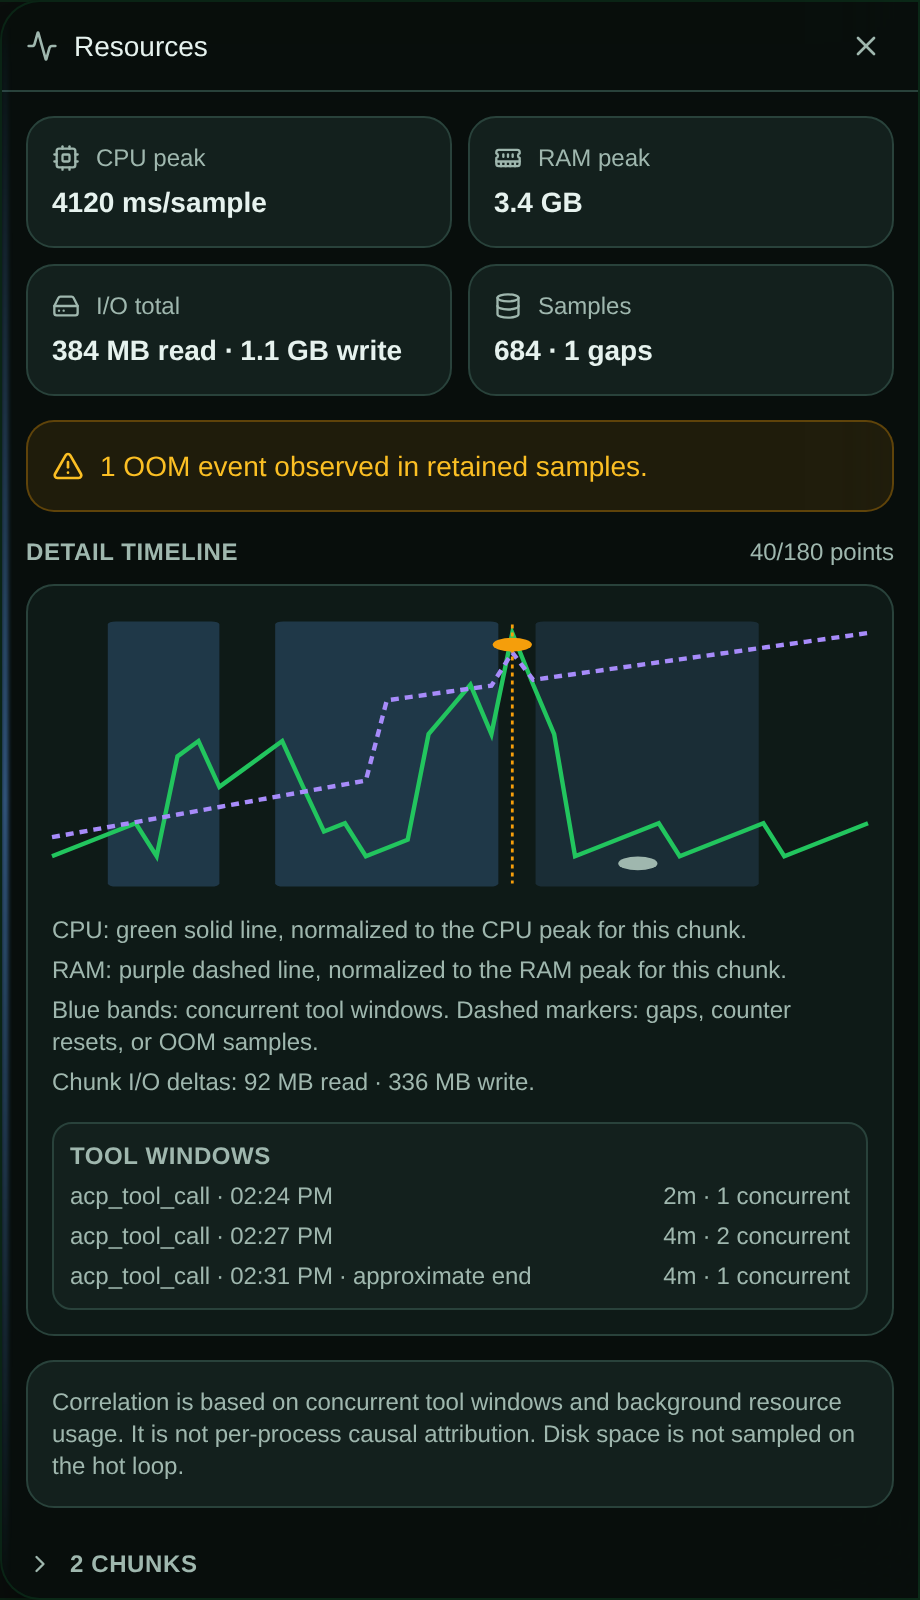
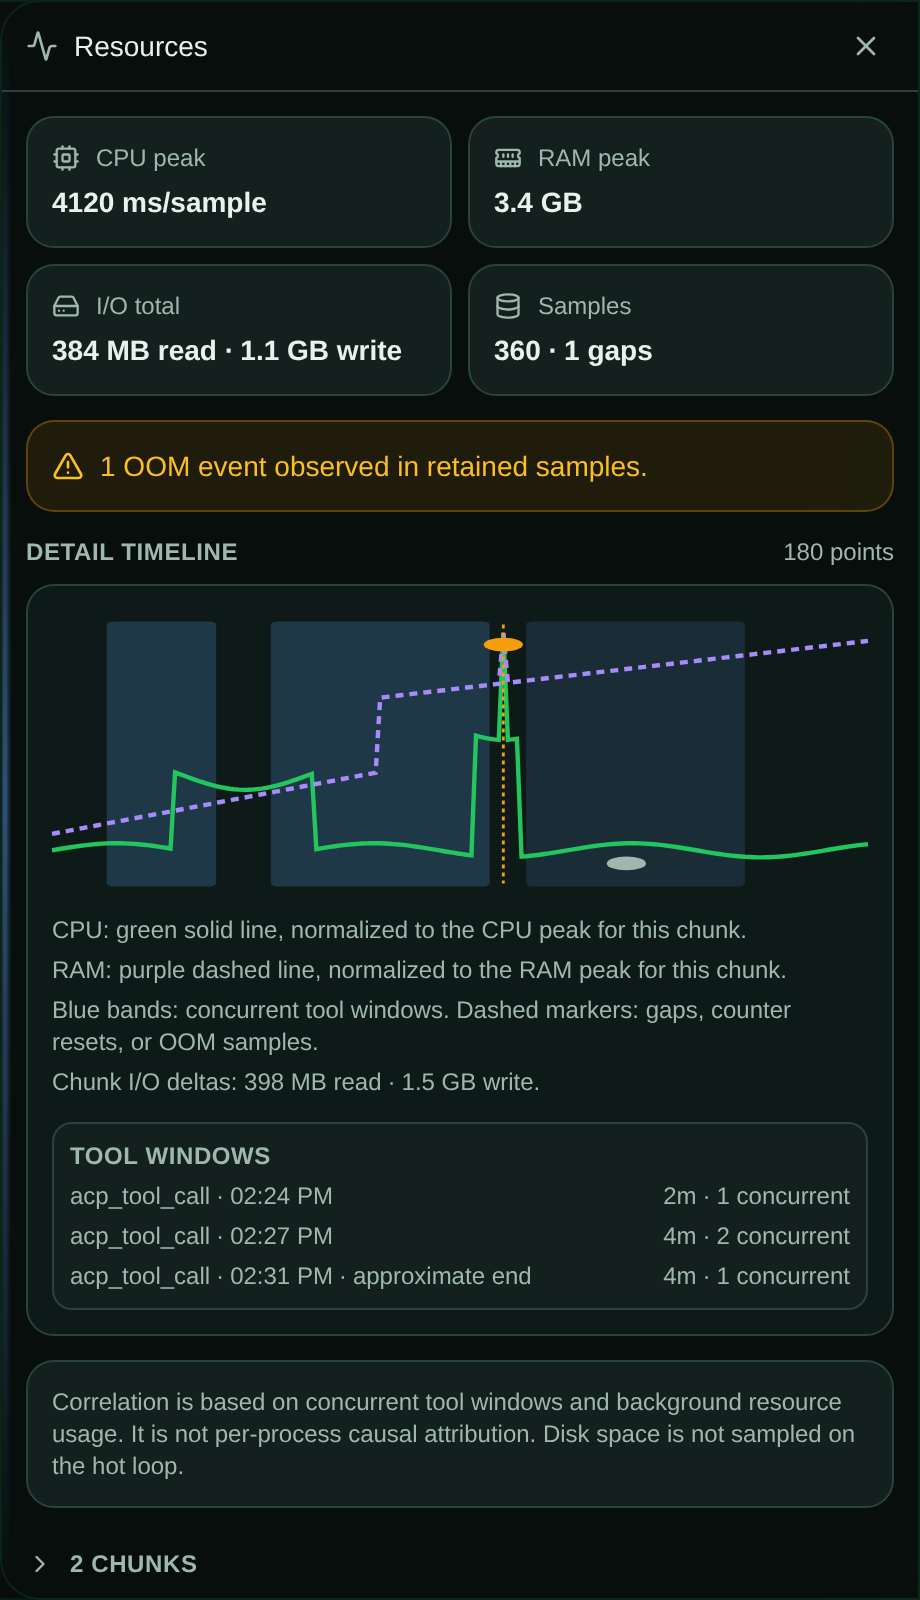
docs: make the resource screenshot honest and finish the review loop
Round 4 caught that downsampling cannot fire at shipped defaults — a 15-minute
chunk at 5-second sampling is ~180 samples against a 720-point cap — so the hero
screenshot's "40/180 points" showed a state no reader can reach. The fixture now
models a real default chunk (180 samples at 5s, downsampled: false, summary
reconciling to 360 across two chunks) with a smooth curve instead of modulo
jitter, and the guide scopes downsampling to the deployments that can actually
hit it, drops the overstated "a spike survives it", and keeps the honest note
that OOM markers are not specifically preserved when thinning does happen.

Also: forking is session-scoped, not anchored to a message (the steps were fixed
in round 3, the promise above them was not); the badge section said "read the
text, not the colour" three times; the two "no banner" rows in the
instant-sessions triage table are now distinguishable by the composer.

The gap-marker decision is unchanged and was endorsed on review: the docs
describe what renders, the undefined-token bug stays tracked in
tasks/backlog/2026-09-23-resource-sparkline-gap-marker-has-no-colour.md, and its
acceptance criteria name the three passages to update when it lands.

diff --git a/apps/web/tests/playwright/docs-screenshots-sessions.spec.ts b/apps/web/tests/playwright/docs-screenshots-sessions.spec.ts
@@ -146,6 +146,19 @@ function conversation() {
 
 const CHUNK_ID = 'wrchunk-docs-2';
 
+/**
+ * One chunk at the shipped defaults: 15 minutes of 5-second samples, so 180 points —
+ * comfortably under WORKSPACE_RESOURCE_DETAIL_MAX_POINTS (720). Downsampling therefore
+ * does not fire, which is what a reader's own panel will show, so the captured header
+ * must read a plain point count rather than the `<shown>/<total>` downsampled form.
+ */
+const CHUNK_SAMPLE_COUNT = 180;
+
+/** Index of the out-of-memory sample, and of the telemetry gap after it. */
+const OOM_INDEX = Math.round(CHUNK_SAMPLE_COUNT * 0.55);
+const GAP_INDEX = Math.round(CHUNK_SAMPLE_COUNT * 0.7);
+
+
 const RESOURCE_SUMMARY = {
   id: `workspace:${PROJECT_ID}:${WORKSPACE_ID}:session:${SESSION_ID}`,
   projectId: PROJECT_ID,
@@ -158,9 +171,9 @@ const RESOURCE_SUMMARY = {
   agentType: 'claude-code',
   runtime: 'vm',
   sourceVersion: 1,
-  startedAt: NOW - 3_600_000,
+  startedAt: NOW - 1_920_000,
   endedAt: NOW - 120_000,
-  sampleCount: 684,
+  sampleCount: 360,
   gapCount: 1,
   toolSpanCount: 8,
   cpuMeanMillis: 940,
@@ -192,7 +205,7 @@ const RESOURCE_CHUNKS = [
     sha256: 'a'.repeat(64),
     startedAt: NOW - 1_020_000,
     endedAt: NOW - 120_000,
-    sampleCount: 180,
+    sampleCount: CHUNK_SAMPLE_COUNT,
     gapCount: 1,
     toolSpanCount: 5,
     completeness: { status: 'complete' },
@@ -213,7 +226,7 @@ const RESOURCE_CHUNKS = [
     sha256: 'b'.repeat(64),
     startedAt: NOW - 1_920_000,
     endedAt: NOW - 1_020_000,
-    sampleCount: 180,
+    sampleCount: CHUNK_SAMPLE_COUNT,
     gapCount: 0,
     toolSpanCount: 3,
     completeness: { status: 'complete' },
@@ -222,36 +235,47 @@ const RESOURCE_CHUNKS = [
   },
 ];
 
-/** A build ramp, a test spike, the OOM, then a quieter recovery. */
+/**
+ * A build ramp, a test spike, the OOM, then a quieter recovery.
+ *
+ * The wobble is a slow sine rather than `i % n`: at 180 points a modulo jitter
+ * draws a sawtooth that fills the chart and hides the shape the docs describe.
+ */
+function wobble(i: number, amplitude: number): number {
+  return Math.round(amplitude * (0.5 + 0.5 * Math.sin(i / 9)));
+}
+
 function sampleCpu(i: number): number {
-  if (i === 22) return 4_120;
-  if (i >= 18 && i <= 24) return 2_400 + (i % 3) * 420;
-  if (i >= 6 && i <= 12) return 1_500 + (i % 4) * 260;
-  return 320 + (i % 5) * 140;
+  if (i === OOM_INDEX) return 4_120;
+  if (i >= OOM_INDEX - 6 && i <= OOM_INDEX + 3) return 2_300 + wobble(i, 700);
+  if (i >= CHUNK_SAMPLE_COUNT * 0.15 && i <= CHUNK_SAMPLE_COUNT * 0.32) {
+    return 1_450 + wobble(i, 520);
+  }
+  return 300 + wobble(i, 240);
 }
 
 function sampleMemory(i: number): number {
-  if (i === 22) return 3_650_722_201;
-  if (i >= 16) return 2_100_000_000 + i * 48_000_000;
-  return 620_000_000 + i * 62_000_000;
+  if (i === OOM_INDEX) return 3_650_722_201;
+  if (i >= CHUNK_SAMPLE_COUNT * 0.4) return 2_100_000_000 + i * 8_000_000;
+  return 620_000_000 + i * 13_000_000;
 }
 
 const RESOURCE_DETAIL = {
   chunkId: CHUNK_ID,
-  originalSampleCount: 180,
-  downsampled: true,
+  originalSampleCount: CHUNK_SAMPLE_COUNT,
+  downsampled: false,
   downsampleLimit: 720,
-  samples: Array.from({ length: 40 }, (_, i) => ({
-    t: NOW - 1_020_000 + i * 22_500,
+  samples: Array.from({ length: CHUNK_SAMPLE_COUNT }, (_, i) => ({
+    t: NOW - 1_020_000 + i * 5_000,
     intervalMillis: 5_000,
     cpuMillis: sampleCpu(i),
     memoryBytes: sampleMemory(i),
     memoryPeakBytes: sampleMemory(i),
     ioReadBytes: i % 6 === 0 ? 12_582_912 : 262_144,
     ioWriteBytes: i % 5 === 0 ? 41_943_040 : 524_288,
-    oom: i === 22 ? 1 : 0,
-    oomKill: i === 22 ? 1 : 0,
-    gap: i === 28,
+    oom: i === OOM_INDEX ? 1 : 0,
+    oomKill: i === OOM_INDEX ? 1 : 0,
+    gap: i === GAP_INDEX,
   })),
   toolSpans: [
     {

diff --git a/apps/www/src/content/docs/docs/guides/session-resources.md b/apps/www/src/content/docs/docs/guides/session-resources.md
@@ -24,7 +24,7 @@ The button is always there, including on sessions that already ended — which i
 want it, because the workspace is gone and this is the only record left. It is also there on
 sessions that never collected anything, where it shows an empty state rather than hiding itself.
 
-![The Resources drawer for a chat session: stat cards reading CPU peak 4120 ms/sample, RAM peak 3.4 GB, I/O total 384 MB read and 1.1 GB write, and 684 samples with 1 gap; an amber banner reading "1 OOM event observed in retained samples"; a detail timeline chart with a green CPU line, a dashed purple RAM line, blue tool-window bands and an amber OOM marker; a Tool windows list; and a collapsed "2 chunks" disclosure.](/images/docs/session-resources-drawer.png)
+![The Resources drawer for a chat session: stat cards reading CPU peak 4120 ms/sample, RAM peak 3.4 GB, I/O total 384 MB read and 1.1 GB write, and 360 samples with 1 gap; an amber banner reading "1 OOM event observed in retained samples"; a detail timeline chart with a green CPU line, a dashed purple RAM line, blue tool-window bands and an amber OOM marker; a Tool windows list; and a collapsed "2 chunks" disclosure.](/images/docs/session-resources-drawer.png)
 
 On mobile the same panel fills the screen and scrolls, with the stat cards and the OOM banner
 first so the answer is above the fold.
@@ -53,12 +53,12 @@ The drawer stacks its content top to bottom in the order you normally need it.
 
 Four numbers for the whole session:
 
-| Card          | What it means                                                                                                                   |
-| ------------- | ------------------------------------------------------------------------------------------------------------------------------- |
-| **CPU peak**  | The busiest single sample, in milliseconds of CPU time. See the conversion below.                                               |
-| **RAM peak**  | The highest total memory the container held at any sampled moment — **including page cache**, so read it with the caveat below. |
-| **I/O total** | Bytes read and written over the session.                                                                                        |
-| **Samples**   | How many observations were retained, and how many **gaps** there are (see [Gaps and resets](#gaps-and-resets)).                 |
+| Card          | What it means                                                                                                                                              |
+| ------------- | ---------------------------------------------------------------------------------------------------------------------------------------------------------- |
+| **CPU peak**  | The busiest single sample, in milliseconds of CPU time. See the conversion below.                                                                          |
+| **RAM peak**  | The highest total memory the container held at any sampled moment — **including page cache**, so read it with [this caveat](#what-this-does-not-tell-you). |
+| **I/O total** | Bytes read and written over the session.                                                                                                                   |
+| **Samples**   | How many observations were retained, and how many **gaps** there are (see [Gaps and resets](#gaps-and-resets)).                                            |
 
 **Converting CPU peak to cores.** CPU is reported as CPU-milliseconds consumed per sample, and
 SAM samples every 5 seconds by default (`RESOURCE_HISTORY_SAMPLE_INTERVAL`). One core running flat
@@ -118,11 +118,15 @@ collapsed until you open it; each row shows the start time, duration, sample cou
 tool-window count, and gaps. Click one to load its timeline.
 
 Only the chunk you select is fetched, so moving between slices costs one small request each rather
-than downloading the whole session. A chunk with more samples than the drawer can draw is
-downsampled first, and the header then reads `<shown>/<total> points`. Downsampling keeps gaps and
-the largest CPU and memory samples, so a usage spike survives it. It does **not** specifically
-preserve OOM samples, so on a downsampled chunk an OOM marker can drop off the timeline — the OOM
-banner and its count come from the stored summary and are never affected.
+than downloading the whole session.
+
+At the shipped defaults a chunk holds about 180 samples — 15 minutes at one sample every 5 seconds —
+so the header reads a plain point count and the chart draws every sample. If a deployment raises the
+chunk interval or lowers `WORKSPACE_RESOURCE_DETAIL_MAX_POINTS` far enough that a chunk exceeds the
+720-point cap, the chart is thinned to fit and the header switches to `<shown>/<total> points`. The
+thinning keeps gaps and the highest CPU/memory sample from each slice of the chunk, so the busiest
+moments survive; it does not specifically keep OOM samples, so an OOM marker can drop off a thinned
+chart. The OOM banner and its count come from the stored summary and are never affected.
 
 **The list is capped.** It shows the most recent 24 chunks
 (`WORKSPACE_RESOURCE_LIST_LIMIT`) — about six hours of a continuously running session at the

diff --git a/apps/www/src/content/docs/docs/guides/instant-sessions.md b/apps/www/src/content/docs/docs/guides/instant-sessions.md
@@ -127,7 +127,7 @@ The chat itself is the reliable signal. Find what you're seeing in this table, t
 | **"delivery was interrupted … outcome is unknown"**                                     | Your prompt may or may not have executed | [Check, then decide](#your-prompt-may-or-may-not-have-run) |
 | **"could not restore its last safe checkpoint"**                                        | In-container work in progress is gone    | [Re-state the work](#the-checkpoint-could-not-be-restored) |
 | The composer is gone and the session reads **"This session has ended."**                | Terminal — nothing to recover            | [Start a new chat](#the-session-is-permanently-stopped)    |
-| No banner at all — the agent just stopped mid-sentence (VM sessions)                    | Possibly an out-of-memory kill           | [Check the Resources panel](#none-of-these-fit)            |
+| No banner, composer still there — the agent just stopped mid-sentence (VM sessions)     | Possibly an out-of-memory kill           | [Check the Resources panel](#none-of-these-fit)            |
 
 Anything else — including a message that delivery "could not be confirmed" — means SAM couldn't classify the failure. Treat it like the interrupted case: check before you resend.
 

diff --git a/apps/www/src/content/docs/docs/guides/chat-features.md b/apps/www/src/content/docs/docs/guides/chat-features.md
@@ -191,7 +191,7 @@ Agent responses can be played back as audio. SAM uses Deepgram Aura 2 (via Worke
 
 ## Conversation Forking
 
-You can branch off from any point in a conversation to explore an alternative approach without losing the original thread.
+You can branch off from a conversation to explore an alternative approach without losing the original thread. A fork copies the session's context into a new session — it is session-scoped, not anchored to a particular message.
 
 Forking now applies to task-backed chat sessions broadly, including instant-container and conversation-style sessions. You do not need to know whether the original session started from an idea, a task, or a lightweight chat; if the session is forkable, SAM preserves the lineage and starts the new branch with the right context.
 

diff --git a/apps/www/src/content/docs/docs/guides/scheduled-actions.md b/apps/www/src/content/docs/docs/guides/scheduled-actions.md
@@ -49,9 +49,6 @@ state out in text as well, so you never have to rely on the colour.
 | Red    | `failed`, `unauthorized`, `unsupported`, `critical`, `error`                                |
 | Grey   | `cancelled`, `expired`, `recorded_not_injected`, and anything else                          |
 
-Grey is also the fallback for a state the UI does not recognise, so read the badge's text rather
-than inferring "finished" from the colour.
-
 ## Schedule once
 
 In the **Schedules** section, choose **Schedule once**, enter a due time, and pick an action:
